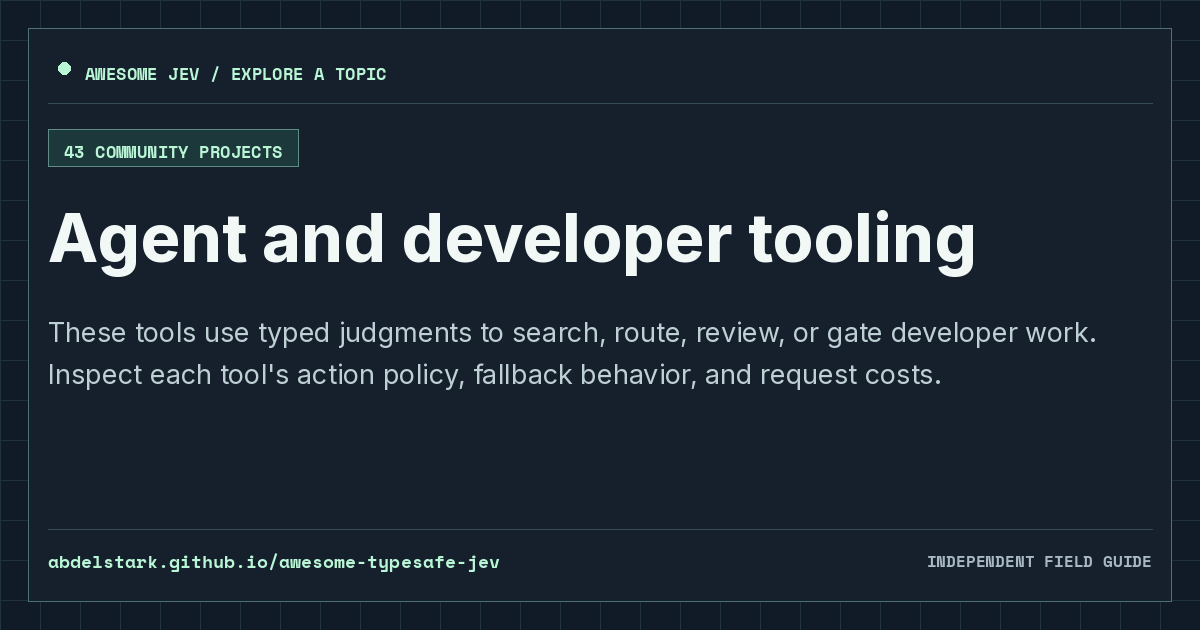
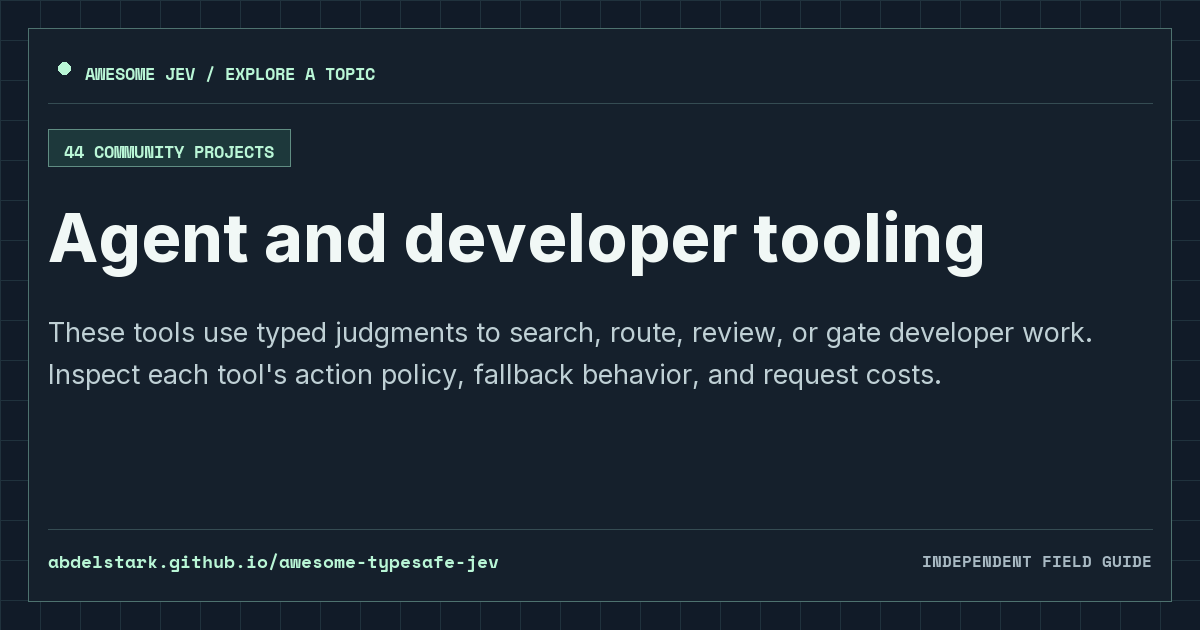
Add pytest-jev to Agent and developer tooling

diff --git a/projects/gh-allebee-pytest-jev.html b/projects/gh-allebee-pytest-jev.html
@@ -1,0 +1,20 @@
+---
+layout: "resource"
+title: "pytest-jev | Awesome Jev"
+description: "pytest plugin for semantic assertions about LLM output: jev.expect(text, holds=[...], lacks=[...]) asks one Noul per claim in a single request and fails with every claim's probability, a claim holds at 0.8 or above and lacks at 0.2 or below so anything in between fails, and jev.choice and jev.score compare Choice and Score answers by probability mass; answers are cached in .pytest_cache, tests skip without an API key, and the asserted text and context are sent to TypeSafe or OpenRouter."
+permalink: "/projects/gh-allebee-pytest-jev/"
+resource_name: "pytest-jev"
+resource_slug: "gh-allebee-pytest-jev"
+resource_url: "https://github.com/allebee/pytest-jev"
+description_markdown: "pytest plugin for semantic assertions about LLM output: `jev.expect(text, holds=[...], lacks=[...])` asks one Noul per claim in a single request and fails with every claim's probability, a claim holds at 0.8 or above and lacks at 0.2 or below so anything in between fails, and `jev.choice` and `jev.score` compare Choice and Score answers by probability mass; answers are cached in `.pytest_cache`, tests skip without an API key, and the asserted text and context are sent to TypeSafe or OpenRouter."
+category_name: "Agent and developer tooling"
+category_id: "agent-and-developer-tooling"
+social_image: "/assets/cards/gh-allebee-pytest-jev.png"
+related:
+  - name: "pi-warden"
+    permalink: "/projects/gh-devmortimer-pi-warden/"
+  - name: "slop-grader"
+    permalink: "/projects/gh-lukstei-slop-grader/"
+  - name: "Sniff Test"
+    permalink: "/projects/gh-danrwilloughby-snifftest/"
+---

diff --git a/categories/agent-and-developer-tooling.html b/categories/agent-and-developer-tooling.html
@@ -192,6 +192,11 @@ resources:
     description: "Pi guardrails built on pi-typesafe that return Jev's verdict to the agent as a held tool result or a short steer instead of a dialog, check writes against a project rules file, and grade their own holds against the user's next message on recorded sessions; the action guard is calibrated on one user's 17k calls, the other guards on synthetic cases only."
     permalink: "/projects/gh-devmortimer-pi-warden/"
     image: "/assets/cards/gh-devmortimer-pi-warden.png"
+  - name: "pytest-jev"
+    url: "https://github.com/allebee/pytest-jev"
+    description: "pytest plugin for semantic assertions about LLM output: jev.expect(text, holds=[...], lacks=[...]) asks one Noul per claim in a single request and fails with every claim's probability, a claim holds at 0.8 or above and lacks at 0.2 or below so anything in between fails, and jev.choice and jev.score compare Choice and Score answers by probability mass; answers are cached in .pytest_cache, tests skip without an API key, and the asserted text and context are sent to TypeSafe or OpenRouter."
+    permalink: "/projects/gh-allebee-pytest-jev/"
+    image: "/assets/cards/gh-allebee-pytest-jev.png"
   - name: "slop-grader"
     url: "https://github.com/lukstei/slop-grader"
     description: "CLI tool that grades markdown and text files against custom rulesets for AI slop, grammar, and documentation quality using Jev scores and flags, then guides an AI agent to auto-fix violations."

diff --git a/projects/gh-lukstei-slop-grader.html b/projects/gh-lukstei-slop-grader.html
@@ -11,8 +11,8 @@ category_name: "Agent and developer tooling"
 category_id: "agent-and-developer-tooling"
 social_image: "/assets/cards/gh-lukstei-slop-grader.png"
 related:
-  - name: "pi-warden"
-    permalink: "/projects/gh-devmortimer-pi-warden/"
+  - name: "pytest-jev"
+    permalink: "/projects/gh-allebee-pytest-jev/"
   - name: "Sniff Test"
     permalink: "/projects/gh-danrwilloughby-snifftest/"
   - name: "Supercov"

diff --git a/projects/gh-devmortimer-pi-warden.html b/projects/gh-devmortimer-pi-warden.html
@@ -13,8 +13,8 @@ social_image: "/assets/cards/gh-devmortimer-pi-warden.png"
 related:
   - name: "pi-verdict"
     permalink: "/projects/gh-jesset-pi-verdict/"
+  - name: "pytest-jev"
+    permalink: "/projects/gh-allebee-pytest-jev/"
   - name: "slop-grader"
     permalink: "/projects/gh-lukstei-slop-grader/"
-  - name: "Sniff Test"
-    permalink: "/projects/gh-danrwilloughby-snifftest/"
 ---

diff --git a/projects/gh-jesset-pi-verdict.html b/projects/gh-jesset-pi-verdict.html
@@ -15,6 +15,6 @@ related:
     permalink: "/projects/gh-nyarlathoteppppp-pi-jev-context/"
   - name: "pi-warden"
     permalink: "/projects/gh-devmortimer-pi-warden/"
-  - name: "slop-grader"
-    permalink: "/projects/gh-lukstei-slop-grader/"
+  - name: "pytest-jev"
+    permalink: "/projects/gh-allebee-pytest-jev/"
 ---

diff --git a/README.md b/README.md
@@ -296,6 +296,7 @@ These tools use typed judgments to search, route, review, or gate developer work
 - [pi-jev-context](https://github.com/Nyarlathoteppppp/pi-jev-context) — Pi extension that shortens long tool output before it enters the context, so no cached prompt prefix is invalidated: Jev gives every block of the output a probability that the current request needs it, only blocks it is confident are unneeded are hidden, code guarantees that failure lines, request terms and the top-ranked blocks survive, kept lines stay verbatim, and a `context_recall` tool returns the original; ships [experiment reports](https://github.com/Nyarlathoteppppp/pi-jev-context/tree/main/docs/experiments) and a [findings log](https://github.com/Nyarlathoteppppp/pi-jev-context/blob/main/docs/FINDINGS.md) with pre-registered synthetic sets and weakly labelled replays of real sessions, including a negative result (Jev-judged pruning of old context dropped information needed later, so that part stays shadow-only); experimental, shadow mode by default, and the real-session replays come from one user's sessions.
 - [pi-verdict](https://github.com/jesset/pi-verdict) — Pi permission gate that first applies deterministic rules (danger floor, user allow/deny, protected-path prompts) for clear decisions, then routes gray-zone cases to a fail-closed enforcing classifier (configurable via `classifierModel` to point at Jev: allow/ask/deny); the Jev backend is experimental — served through OpenRouter or TypeSafe's direct API, it ignores protected-path hints and can be swayed by adversarial transcript content; transcripts are sent to whichever classifier backend is configured.
 - [pi-warden](https://github.com/DevMortimer/pi-warden) — Pi guardrails built on pi-typesafe that return Jev's verdict to the agent as a held tool result or a short steer instead of a dialog, check writes against a project rules file, and grade their own holds against the user's next message on recorded sessions; the action guard is calibrated on one user's 17k calls, the other guards on synthetic cases only.
+- [pytest-jev](https://github.com/allebee/pytest-jev) — pytest plugin for semantic assertions about LLM output: `jev.expect(text, holds=[...], lacks=[...])` asks one Noul per claim in a single request and fails with every claim's probability, a claim holds at 0.8 or above and lacks at 0.2 or below so anything in between fails, and `jev.choice` and `jev.score` compare Choice and Score answers by probability mass; answers are cached in `.pytest_cache`, tests skip without an API key, and the asserted text and context are sent to TypeSafe or OpenRouter.
 - [slop-grader](https://github.com/lukstei/slop-grader) — CLI tool that grades markdown and text files against custom rulesets for AI slop, grammar, and documentation quality using Jev scores and flags, then guides an AI agent to auto-fix violations.
 - [Sniff Test](https://github.com/DanRWilloughby/snifftest) — Prose linter with local countable rules and opt-in Jev Noul judgments over individual paragraphs, available as a CLI, pre-commit hook, and GitHub Action; its author-published comparison uses a small seeded corpus, with some judgment rules tuned on those same seeds.
 - [Supercov](https://github.com/supercorp-ai/supercov) — Code quality for coding agents: Jev scores each source file so the agent knows what to fix first.
